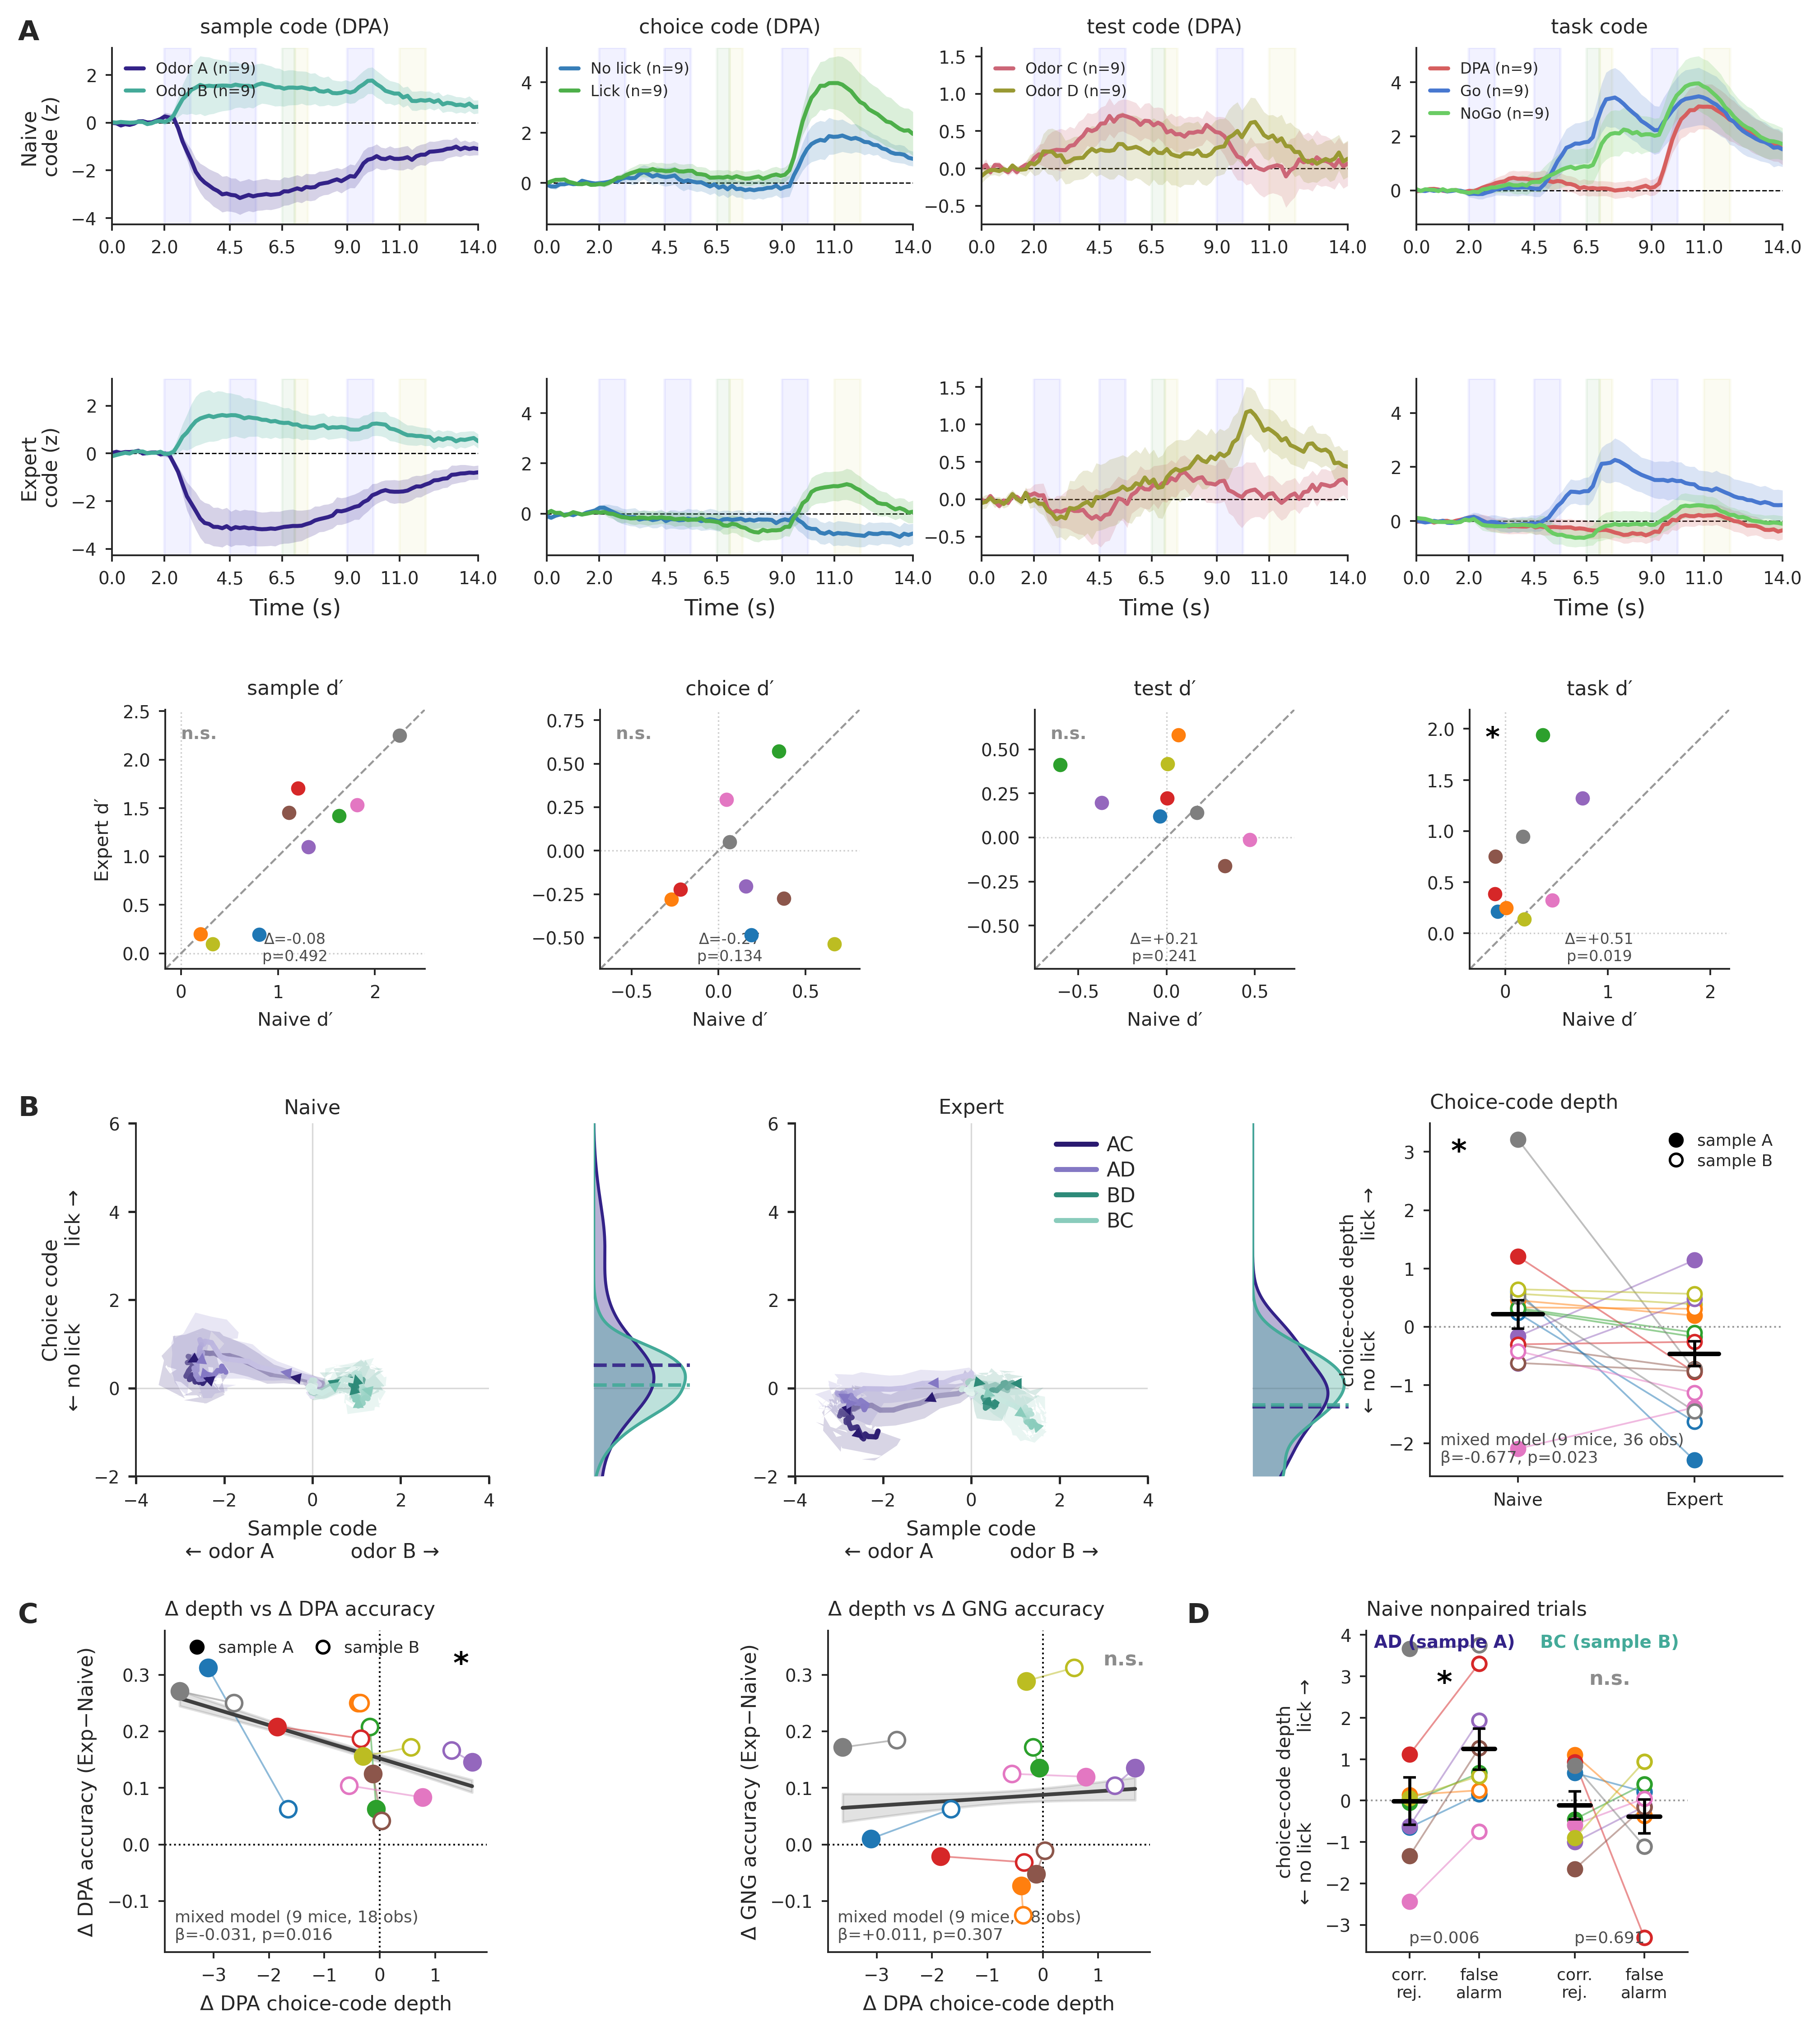
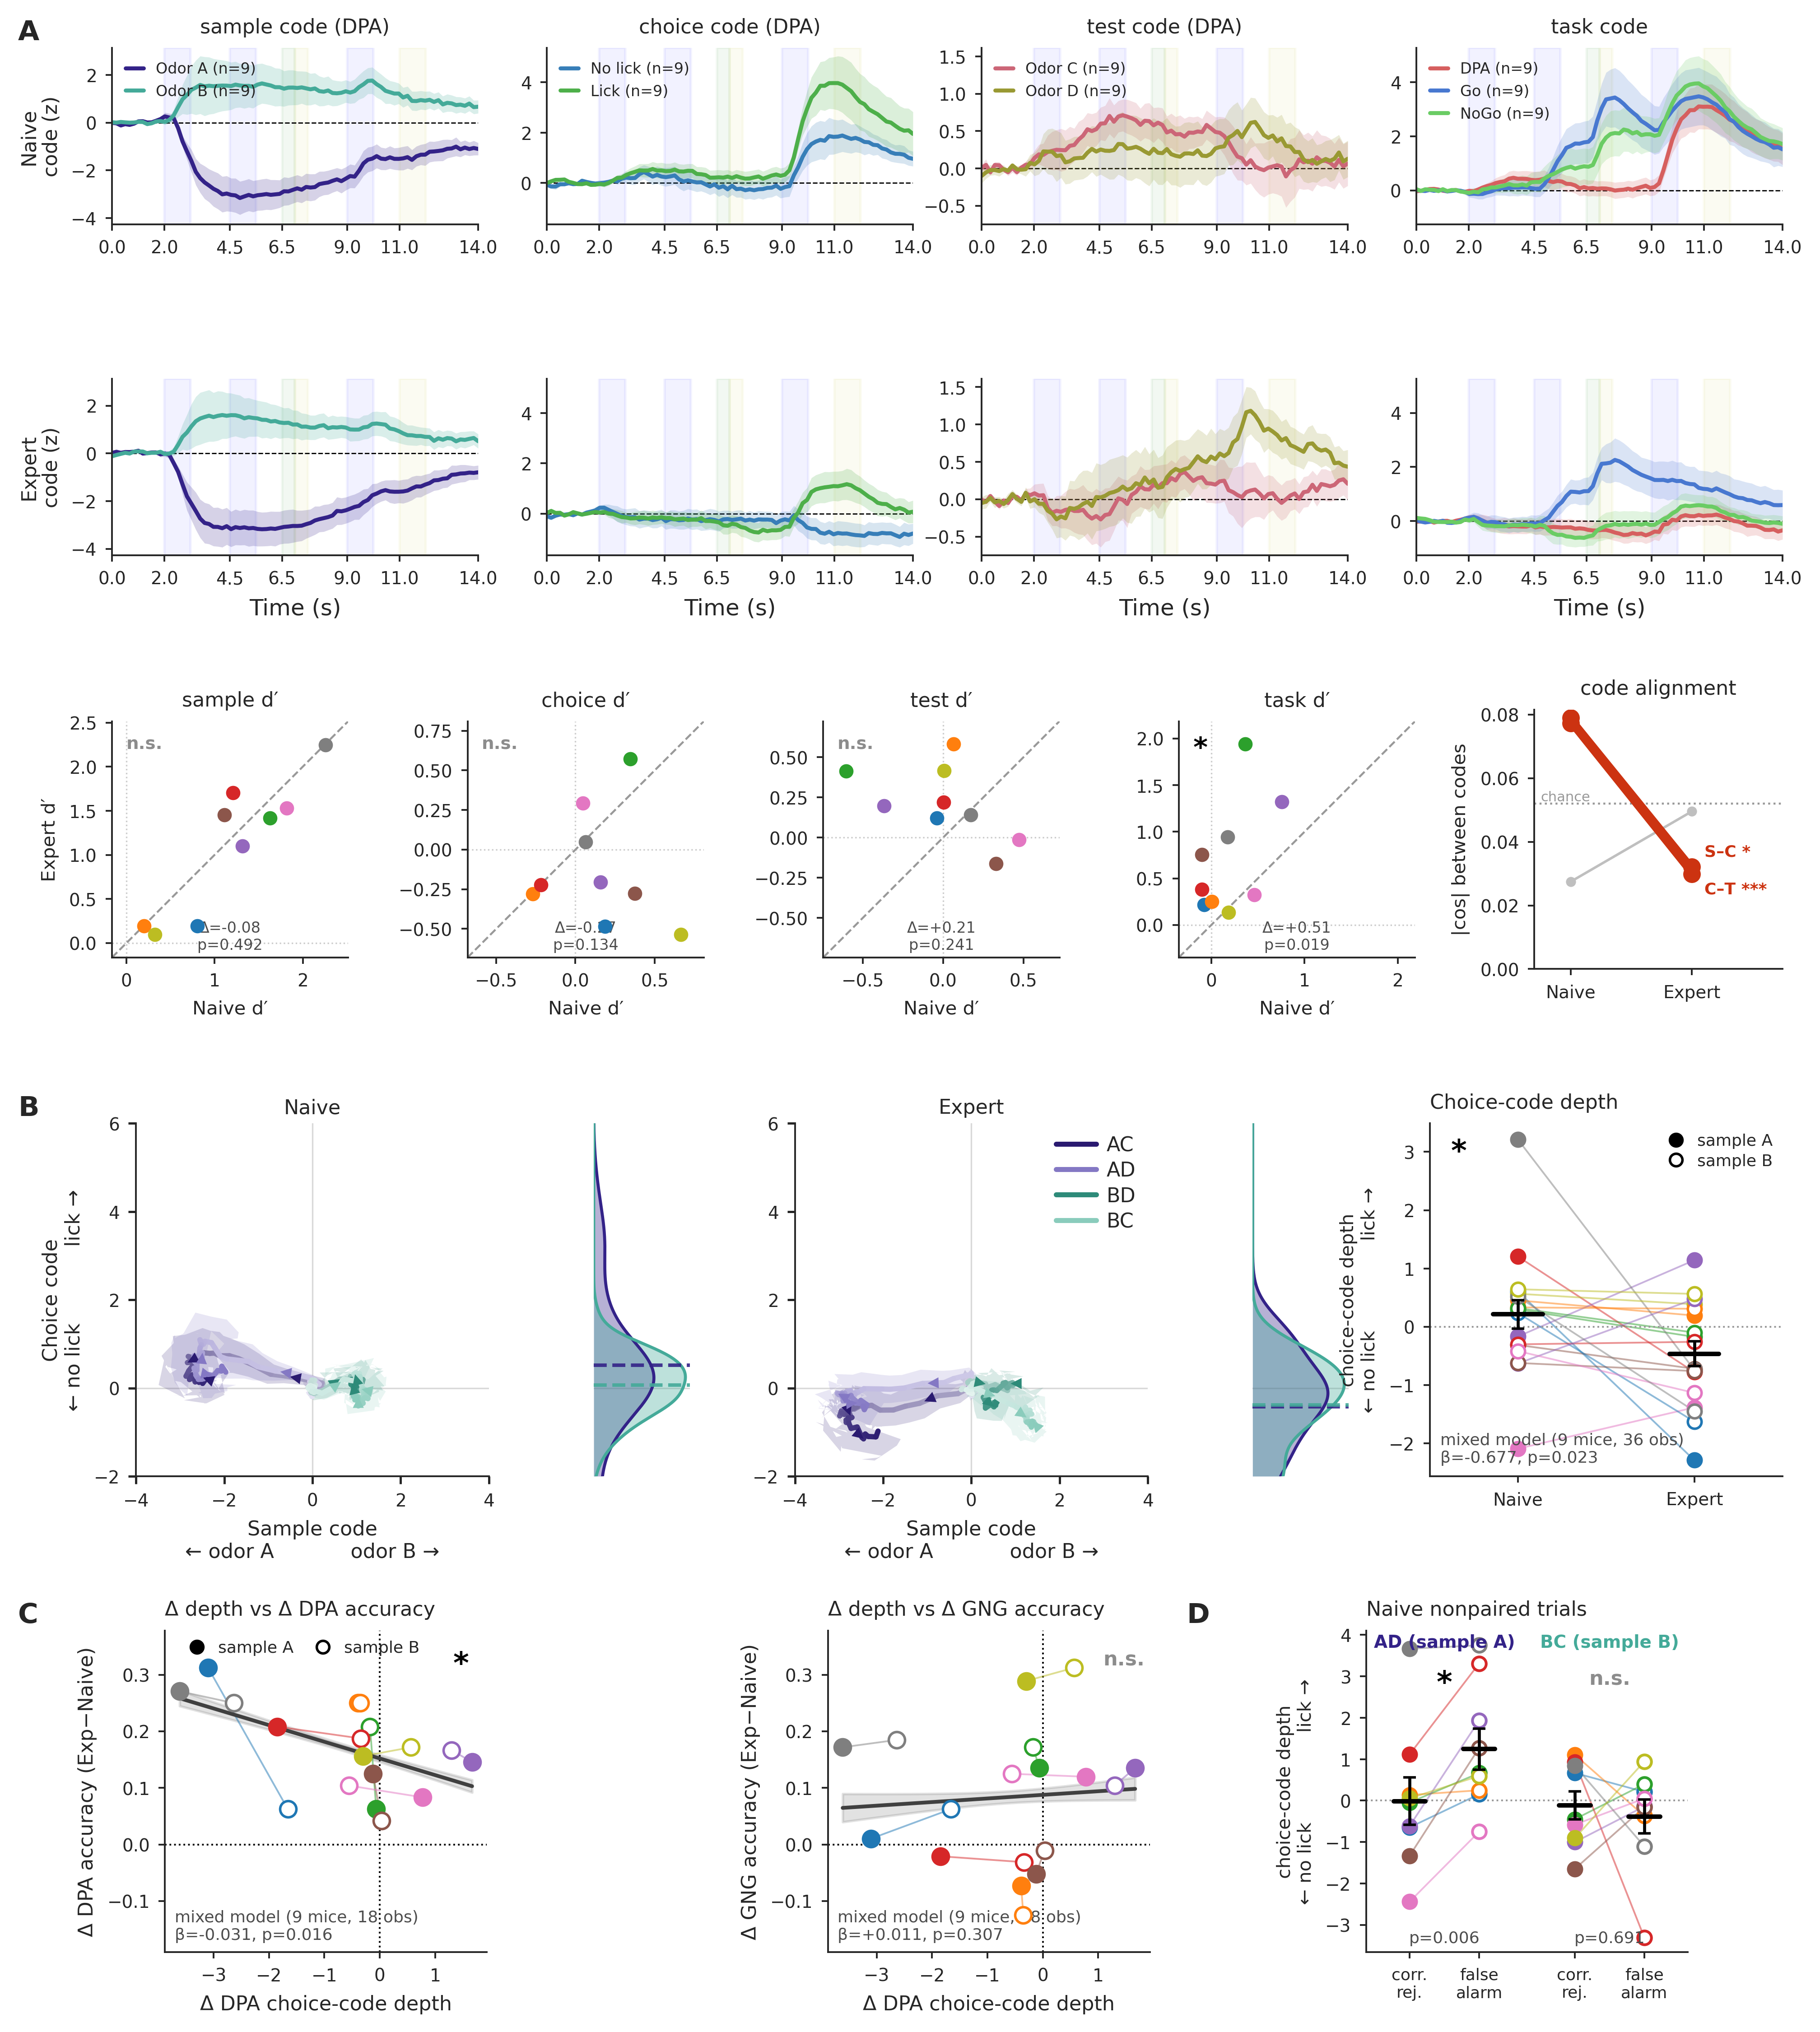
overlaps main (native): add code-alignment (cosine) panel to the A d' row
Complement to the d' scatters, "as in the dPCA main figure". 5th cell of the
A d'-row = dPCA-style axis-mixing slope graph: pairwise |cos| between the code
axes (decoder weight vectors from run_overlaps --save-weights; unit axis over
the window, within-mouse cosine on the shared neuron basis, averaged over 9
mice), Naive->Expert, dotted chance floor, data-driven * highlight (per-mouse
paired-t).

Window = BINS_LATE 27-53 (same late-delay window as the depth readout in C/D).
Result: codes near-orthogonal, and the CHOICE code demixes from both stimulus
codes with learning -- sample-choice 0.079->0.032 p=0.017 (*), choice-test
0.077->0.030 p<0.001 (***); sample-test stays at chance. Window-sensitive
(weaker on the tight bins_LD 45-53), noted in code/docs.

Reuses fig_overlaps_cosine.py machinery.

Claude-Session: https://claude.ai/code/session_01FkQwEmLP97jemLkLvMRg9f

diff --git a/overlaps/fig_overlaps_main_native.py b/overlaps/fig_overlaps_main_native.py
@@ -7,7 +7,10 @@ Layout (4-row gridspec, print-scale typography ~7 pt):
      y shared within each code column so learning shrinkage is visible. A 3rd row adds a per-mouse
      neural d′ scatter (Naive x vs Expert y, unity = unchanged) for each code, computed on the same
      trainLD_TEST readout over the code's window (sample/choice=bins_LD, test=bins_TEST, task=Go/NoGo
-     at bins_MD), like the opto figure's d′ panels.                       (← fig_overlaps_codes_1d.py)
+     at bins_MD), like the opto figure's d′ panels. A 5th cell in that row shows CODE ALIGNMENT
+     (dPCA-style): pairwise |cos| between the code axes (decoder weights, late-delay BINS_LATE),
+     Naive→Expert — codes are near-orthogonal and the CHOICE code demixes from both stimulus codes
+     with learning (sample–choice *, choice–test ***; sample–test stays at chance). (← fig_overlaps_codes_1d.py / fig_overlaps_cosine.py)
   B  the no-lick push: DPA state Naive→Expert in the sample × choice plane (its OWN full row),
      with choice-code distribution strips; axes carry pole labels (odor A/B, no-lick/lick).
      Trajectories and KDE both stop before test onset (bins 0–53), so B is a pure pre-test
@@ -188,6 +191,33 @@ for _title, _tgt, _col, _pos, _neg, _v, _dpaonly in DPRIME_SPECS:
         if np.isfinite(n) and np.isfinite(e):
             dN.append(n); dE.append(e); mice.append(mo)
     dpr[_title] = dict(naive=np.array(dN), expert=np.array(dE), mice=mice)
+
+
+# ── PANEL A cosine mixing: pairwise |cos| between the CODE AXES (decoder weight vectors),
+#    per mouse, Naive vs Expert — "how similar are the codes", like the dPCA figure's axis-mixing.
+#    Weights (run_overlaps.py --save-weights): {(mouse,stage,'all',target): (84 bins, n_neurons)};
+#    axis = unit(mean weight over the late-delay window BINS_LATE = the SAME window as the depth
+#    readout in C/D), cosine within a mouse (shared neuron basis), |cos| averaged across mice.
+#    Chance |cos| ≈ 1/√n̄_neurons. (Demixing is window-sensitive like the depth↔behaviour coupling:
+#    significant on the broad late-delay 27–53 & full delay, weaker on the tight bins_LD 45–53.)
+_WBLOB   = pkl_load(f'weights_{DUM}_raw', path=DATA_IN)['weights']
+COS_PAIRS = [('sample', 'choice'), ('sample', 'test'), ('choice', 'test')]
+
+
+def _code_axis(mouse, stage, target, win):
+    ws = np.asarray(_WBLOB[(mouse, stage, 'all', target)], float)
+    v = ws[win].mean(0); nrm = np.linalg.norm(v)
+    return v / nrm if nrm > 0 else v
+
+
+cosmix = {}                                                            # pair -> per-mouse Naive/Expert |cos|
+for _a, _b in COS_PAIRS:
+    cN, cE = [], []
+    for mo in ALL_MICE:
+        cN.append(abs(_code_axis(mo, 'Naive', _a, BINS_LATE) @ _code_axis(mo, 'Naive', _b, BINS_LATE)))
+        cE.append(abs(_code_axis(mo, 'Expert', _a, BINS_LATE) @ _code_axis(mo, 'Expert', _b, BINS_LATE)))
+    cosmix[(_a, _b)] = dict(naive=np.array(cN), expert=np.array(cE))
+COS_CHANCE = 1.0 / np.sqrt(np.mean([np.asarray(_WBLOB[(m, 'Naive', 'all', 'sample')]).shape[1] for m in ALL_MICE]))
 
 
 # ══════════════════════════════════════════════════════════════════════════════
@@ -461,10 +491,11 @@ for ri, STG in enumerate(STAGES):
     b = ((y.laser == 0) & (y.learning == STG) & (y.performance == 1)).to_numpy()
     _draw_codes_row(axA[ri], b, stage_label=STG, show_titles=(ri == 0), show_xlabel=(ri == 1))
 
-# ── A d′ row: per-mouse d′ (Naive x vs Expert y) for each code — unity = unchanged ──
+# ── A d′ row: per-mouse d′ (Naive x vs Expert y) per code + code-alignment (cosine) panel ──
+gsAdp = gs[2, 0:12].subgridspec(1, 5, width_ratios=[1, 1, 1, 1, 1.05], wspace=0.5)
 axA_dp = []
 for c, (_title, *_) in enumerate(DPRIME_SPECS):
-    axd = fig.add_subplot(gs[2, 3 * c:3 * c + 3])
+    axd = fig.add_subplot(gsAdp[0, c])
     axA_dp.append(axd)
     P = dpr[_title]
     _av = np.concatenate([P['naive'], P['expert']]) if len(P['naive']) else np.array([0.0, 1.0])
@@ -489,6 +520,31 @@ for c, (_title, *_) in enumerate(DPRIME_SPECS):
     axd.text(0.5, 0.02, f'Δ={_dm:+.2f}\np={_tp:.3f}', transform=axd.transAxes, ha='center', va='bottom',
              fontsize=6, color='0.3')
     print(f"A d′[{_title.strip()}] Naive→Expert Δ={_dm:+.3f} paired-t p={_tp:.3f} n={_n}")
+
+# ── A code-alignment: pairwise |cos| between code axes, Naive→Expert (dPCA-style mixing) ──
+axCos = fig.add_subplot(gsAdp[0, 4])
+axCos.axhline(COS_CHANCE, ls=':', color='0.6', lw=0.8, zorder=1)                   # chance |cos| floor
+axCos.text(-0.25, COS_CHANCE, 'chance', ha='left', va='bottom', fontsize=5.5, color='0.6')
+_LSH = {'sample': 'S', 'choice': 'C', 'test': 'T'}
+_sig_i = 0                                                                          # stagger sig-pair labels
+for _pr in COS_PAIRS:
+    _cN = cosmix[_pr]['naive'].mean(); _cE = cosmix[_pr]['expert'].mean()
+    _tp = float(ttest_rel(cosmix[_pr]['expert'], cosmix[_pr]['naive']).pvalue)
+    _sig = _tp < 0.05                                                               # data-driven highlight
+    _col = '#cc3311' if _sig else '0.75'
+    axCos.plot([0, 1], [_cN, _cE], '-o', color=_col, lw=2.4 if _sig else 1.0,
+               ms=6 if _sig else 3, zorder=5 if _sig else 2)
+    if _sig:
+        _star = '***' if _tp < 0.001 else ('**' if _tp < 0.01 else '*')
+        axCos.annotate(f'{_LSH[_pr[0]]}–{_LSH[_pr[1]]} {_star}', (1, _cE), xytext=(5, 6 - 12 * _sig_i),
+                       textcoords='offset points', va='center', ha='left', color=_col,
+                       fontsize=6.5, fontweight='bold')
+        _sig_i += 1
+    print(f'A cos[{_pr[0]}-{_pr[1]}] |cos| N={_cN:.3f}→E={_cE:.3f} paired-t p={_tp:.3f}')
+axCos.set_xticks([0, 1]); axCos.set_xticklabels(['Naive', 'Expert'], fontsize=7)
+axCos.set_xlim(-0.3, 1.75); axCos.set_ylim(bottom=0.0)
+axCos.set_title('code alignment', fontsize=8)
+axCos.set_ylabel('|cos| between codes', fontsize=7.5)
 
 # ── B: no-lick push planes (Naive | Expert) + choice-dist strips — left half ───
 gsB = gs[3, 0:12].subgridspec(1, 5, width_ratios=[5, 1.2, 5, 1.2, 4.4], wspace=0.3)   # B full row: Naive traj|kde, Expert traj|kde, push scatter

diff --git a/docs/overlaps/overview.md b/docs/overlaps/overview.md
@@ -145,7 +145,10 @@ All n=9 mice → treat every p near 0.05 as suggestive; several quantitative hoo
     column, **plus a d′ scatter row**: per-mouse neural d′ Naive(x)-vs-Expert(y) for each code (unity =
     unchanged), same `trainLD_TEST` readout, per-code window (sample/choice=bins_LD, test=bins_TEST,
     task=Go/NoGo at bins_MD). Only **task d′ (Go/NoGo) rises with learning (Δ=+0.51 p=0.019 `*`)**;
-    sample/choice/test n.s.
+    sample/choice/test n.s. A 5th cell shows **code alignment** (dPCA-style |cos| between code axes,
+    decoder weights, late-delay BINS_LATE, Naive→Expert): codes near-orthogonal, and the **choice code
+    demixes from both stimulus codes** with learning (sample–choice `*` p=0.017, choice–test `***`
+    p<0.001; sample–test at chance). Window-sensitive (weaker on the tight bins_LD 45–53).
   - **B** — no-lick push planes (Naive|Expert sample×choice + KDE strips, own full row; trajectories &
     KDE stop at test onset so B is pre-test) **plus a 5th sub-panel**: per-mouse late-delay depth
     Naive→Expert as a **D-style paired plot** (stage on x, per-mouse colour, sample A filled / B open,